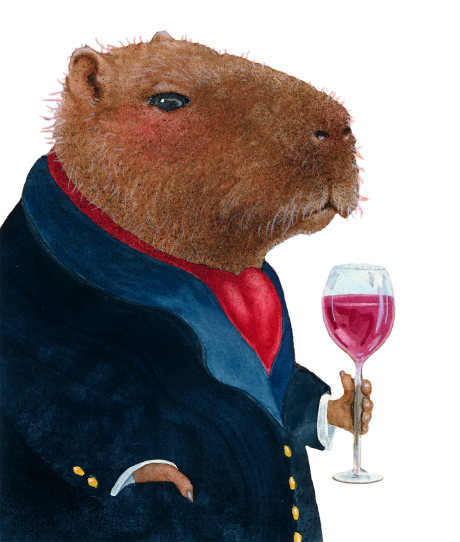
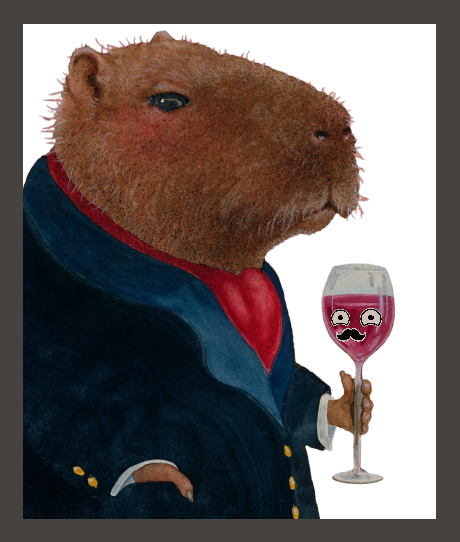
landingpage fixed image (add border) uwu rwar

diff --git a/lib/LandingPage/LandingPage.dart b/lib/LandingPage/LandingPage.dart
@@ -8,10 +8,10 @@ class LandingPage extends StatelessWidget {
   List<Widget> pageChildren(double width, BuildContext context) {
     return <Widget>[
       Padding(
-        padding: const EdgeInsets.only(top: 10, left: 50),
+        padding: const EdgeInsets.only(top: 100, right: 60),
         child: Image.asset(
           "assets/images/lp_image.png",
-          width: width * 0.7,
+          width: width * 0.5,
         ),
       ),
       Container(
